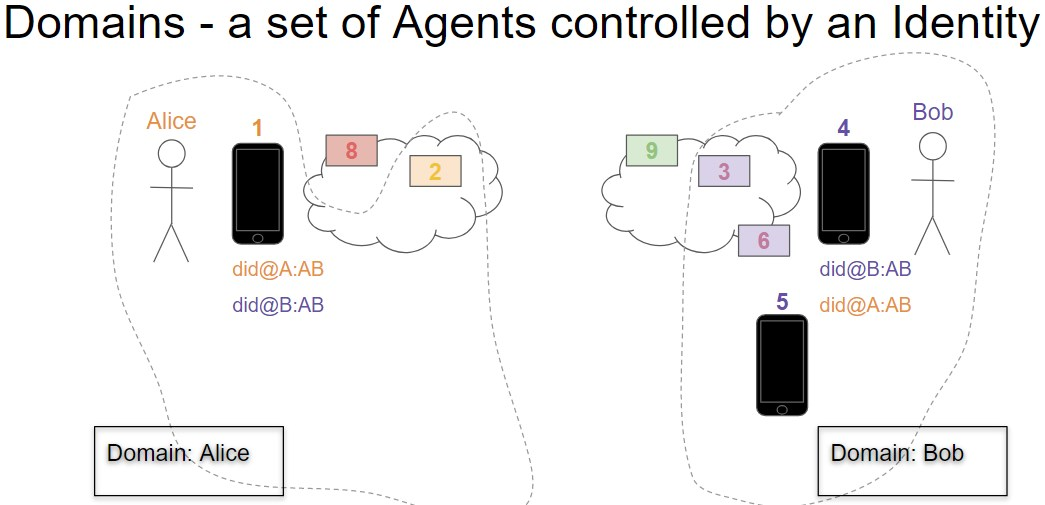
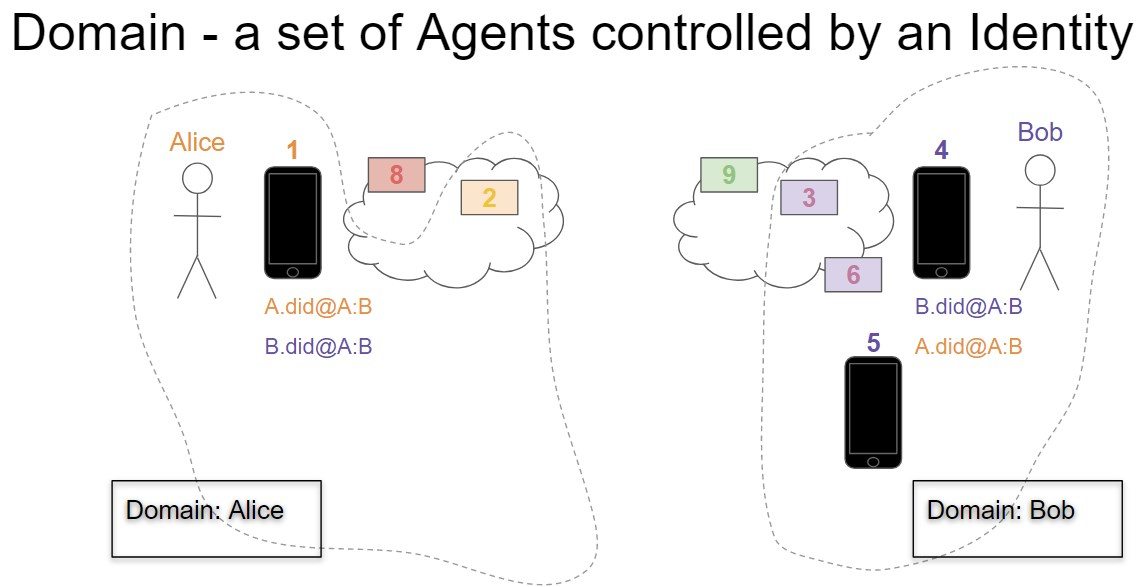
Removed use of term Edge Agent for App Agent, changed DID naming

diff --git a/text/transport-layer-messaging/README.md b/text/transport-layer-messaging/README.md
@@ -16,7 +16,7 @@ This HIPE focuses on Transport Layer Messaging - routing messages. The goal is t
 # Motivation
 [motivation]: #motivation
 
-The purpose of this HIPE is to define the Transport Layer Messaging such that we can ignore the transport of messages as we discuss the much richer Application Layer Messaging types and interactions. That is, we can assume that there is no need to include in an Application Layer message anything about how to route the message to the Receiver - it just magically happens. Alice (via her Edge Agent) sends a message to Bob, and (because of implementations based on this HIPE) we can ignore how the actual message got to Bob's Edge Agent.
+The purpose of this HIPE is to define the Transport Layer Messaging such that we can ignore the transport of messages as we discuss the much richer Application Layer Messaging types and interactions. That is, we can assume that there is no need to include in an Application Layer message anything about how to route the message to the Receiver - it just magically happens. Alice (via her App Agent) sends a message to Bob, and (because of implementations based on this HIPE) we can ignore how the actual message got to Bob's App Agent.
 
 Put another way - this HIPE is about envelopes. It defines a way to put a message - any message - into an envelope, put it into an outbound mailbox and have it magically appear in the Receiver's inbound mailbox in a secure and privacy-preserving manner. Once we have that, we can focus on letters and not how letters are sent.
 
@@ -50,19 +50,21 @@ The following terms are used in this HIPE with the following meanings:
 
 - Domain - a set of Agents collaborating on behalf of an Identity
   - It's assumed that the Agents of a domain were developed by a single vendor and so know more about each other than about Agents in another domain.
-  - An example of two Domains is displayed in the image below.
-- Edge Agent - any Agent that handles App Layer Messages
+  - An example of two Domains is provided in the image below.
+- App Agent - any Agent that receives and processes App Layer Messages
   - Could be a device, software in the cloud, part of an enterprise, etc.
+  - An App Agent could also perform other roles within a Domain - e.g. a Routing Agent
   - ***ASIDE**: We may want a use a different term for this.*
-- Sender - the Edge Agent sending the Application Layer Message
-- Receiver - the Edge Agent receiving the Application Layer Message
+- Sender - the App Agent sending the Application Layer Message
+- Receiver - the App Agent receiving the Application Layer Message
   - The message may pass through many Agents between the Sender and Receiver
 - Routing Agents:
-  - Domain Endpoint - shared physical endpoint for messages into domains
-    - Shared by many identities (e.g. https://endpoint.agentsRus.com)
-  - Agency - the handler for messages sent to the Domain Endpoint.
-    - E.g. the "domain endpoint" is passive,  "agency" is active.
-  - Cloud Routing Agent - identity-controlled entry point for a domain
+  - Any agent involved in the routing of App Layer Messages from Sender to Receiver, including:
+    - Domain Endpoint - shared physical endpoint for messages into domains
+      - Shared by many identities (e.g. https://endpoint.agentsRus.com)
+    - Agency - the handler for messages sent to the Domain Endpoint.
+      - E.g. the "domain endpoint" is passive,  "agency" is active.
+    - Cloud Routing Agent - identity-controlled entry point for a domain
 - Messaging Layers
   - App Layer - end-to-end messaging from the message creator to its consumer
   - Routing - end-to-end delivery - the “Forward” message (others?) with encrypted payload
@@ -105,12 +107,12 @@ The following is an example of an arbitrary pair of domains that will be helpful
 In the diagram above:
 
 - Alice has
-  - 1 Edge Agent - "1"
+  - 1 App Agent - "1"
   - 1 Cloud Routing Agent - "2"
   - 1 Domain Endpoint - "8"
 - Bob has
-  - 3 Edge Agents - "4", "5" and "6"
-    - "6" is an Edge Agent in the cloud, "4" and "5" are physical devices.
+  - 3 App Agents - "4", "5" and "6"
+    - "6" is an App Agent in the cloud, "4" and "5" are physical devices.
   - 1 Cloud Routing Agent - "3"
   - 1 Domain Endpoint
 
@@ -150,7 +152,7 @@ The key goal for interoperability is that we want other domains to know just eno
 
 As noted in the assumptions, the Sender has the DID of the Receiver, and knows the key from the DIDDoc to use for the Receiver.
 
-> Example: Alice wants to send a message from her phone (1) to Bob's phone (4). She has Bob's DID:b:ab, the DID/DIDDoc Bob created and gave to Alice to use for their relationship. Alice created DID:a:ab and gave that to Bob, but we don't need to use that in this example. The contents of the DIDDoc for DID:b:ab is presented above.
+> Example: Alice wants to send a message from her phone (1) to Bob's phone (4). She has Bob's B:did@A:B, the DID/DIDDoc Bob created and gave to Alice to use for their relationship. Alice created A:did@A:B and gave that to Bob, but we don't need to use that in this example. The contents of the DIDDoc for B:did@A:B is presented above.
 
 ### Required: End-to-End encryption of the App Layer Message
 
@@ -161,8 +163,8 @@ To route the message to the Receiver, the Sender sends a "Forward" message with 
 ```json
 {
   "type": "Forward"
-  "to" : "DID#key"
-  "msg" : "<Encrypt(DID#key, AppLayerMessage)>"
+  "to" : "B:did@A:B#key"
+  "msg" : "<Encrypt(B:did@A:B#key, AppLayerMessage)>"
 }
 ```
 
@@ -170,7 +172,7 @@ To route the message to the Receiver, the Sender sends a "Forward" message with 
 
 ### Required: Minimize Receiver information available to Agents
 
-We want to minimize the knowledge about the Receiver of the App Layer message for minimally trusted agents. In this case, "minimally trusted" are all agents except the designated "Cloud Routing Agent" for the Receiver. The "Cloud Routing Agent" must know the exact destination (DID#key) of the Receiver, but Agents handling the message prior to the Cloud Routing Agent do not - they just need the DID of the Receiver.
+We want to minimize the knowledge about the Receiver of the App Layer message for minimally trusted agents. In this case, "minimally trusted" are all agents except the designated "Cloud Routing Agent" for the Receiver. The "Cloud Routing Agent" must know the exact destination (B:did@A:B#key) of the Receiver, but Agents handling the message prior to the Cloud Routing Agent do not - they just need the B:did@A:B of the Receiver.
 
 > Question: Is it necessary to hide the #key part of the "To" address from intervening Agents?  It adds the complexity outlined in this section.
 
@@ -181,8 +183,8 @@ The sender prepares the following message:
 ```json
 {
   "type": "Forward"
-  "to" : "DID"
-  "msg" : "<Encrypt(DID#er, ForwardMessage)>"
+  "to" : "B:did@A:B"
+  "msg" : "<Encrypt(B:did@A:B#routing, ForwardMessage)>"
 }
 ```
 
@@ -204,9 +206,9 @@ Once the Domain Endpoint (Agency) receives the encrypted/encoded text, it decryp
 
 When the Cloud Routing Agent (eventually) receives the message, it decrypts the outer wrapper that was added by the Sender to reveal the inner "Forward" message, this time with the full "DID#key" necessary to route the message to the intended Receiver agent. The Cloud Routing Agent uses its (implementation specific) knowledge to map from the DID#key to the Receiver agent, possibly via intermediary agents.
 
-### Required: The Recipient Edge Agent Decrypts/Processes the App Layer Message
+### Required: The Receiver App Agent Decrypts/Processes the App Layer Message
 
-When the intended Receiver Edge Agent receives the message, it decrypts the payload and processes the message.
+When the intended Receiver App Agent receives the message, it decrypts the payload and processes the message.
 
 ### Exposed Data
 
@@ -223,7 +225,7 @@ Thus, every Messaging DIDDoc is assumed to have at least one endpoint and 3 keys
 - The endpoint for the Domain Endpoint
 - The public key for the Domain Endpoint
 - The public key for the Cloud Routing Agent
-- The public key for the App Layer Message Receiver Edge Agent
+- The public key for the Message Receiver App Agent
 
 The DIDDoc will have an additional key for each additional App Layer Message Receiver.
 
@@ -238,7 +240,7 @@ The HIPE requirement in those degenerate cases is that the DIDDoc still contain 
 Given the sequence specified above, following data is **NOT** exposed to the sender's agents:
 
 - Routing-only Agents within the receiver's domain
-- Edge Agents the receiver has that it chooses not to include in the DIDDoc
+- App Agents the receiver has that it chooses not to include in the DIDDoc
 - The physical endpoints of Agents within the receiver's domain (other than the Domain Endpoint)
   - The physical endpoints and, as required, associated public keys, are shared as needed within the receiver's domain.
 
